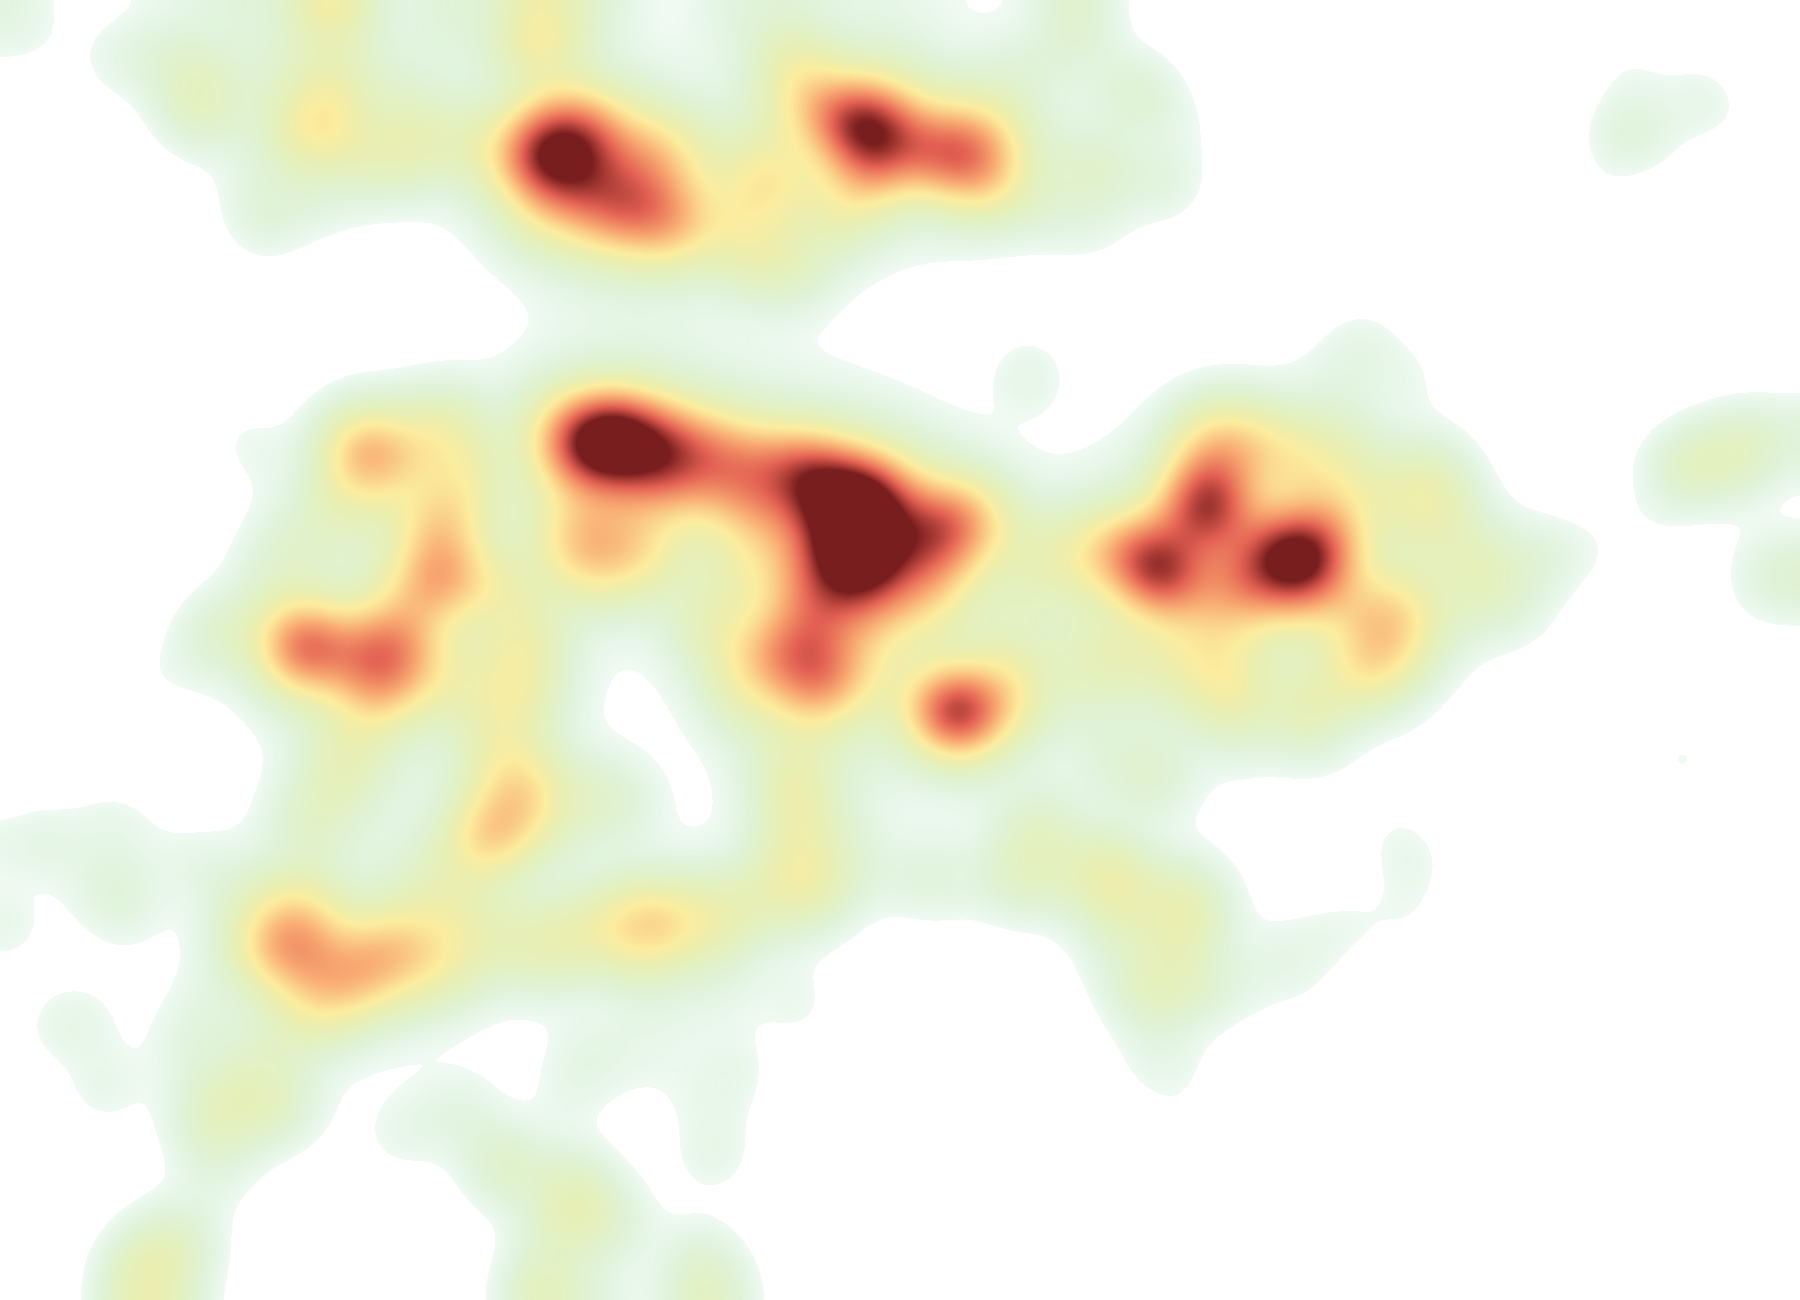
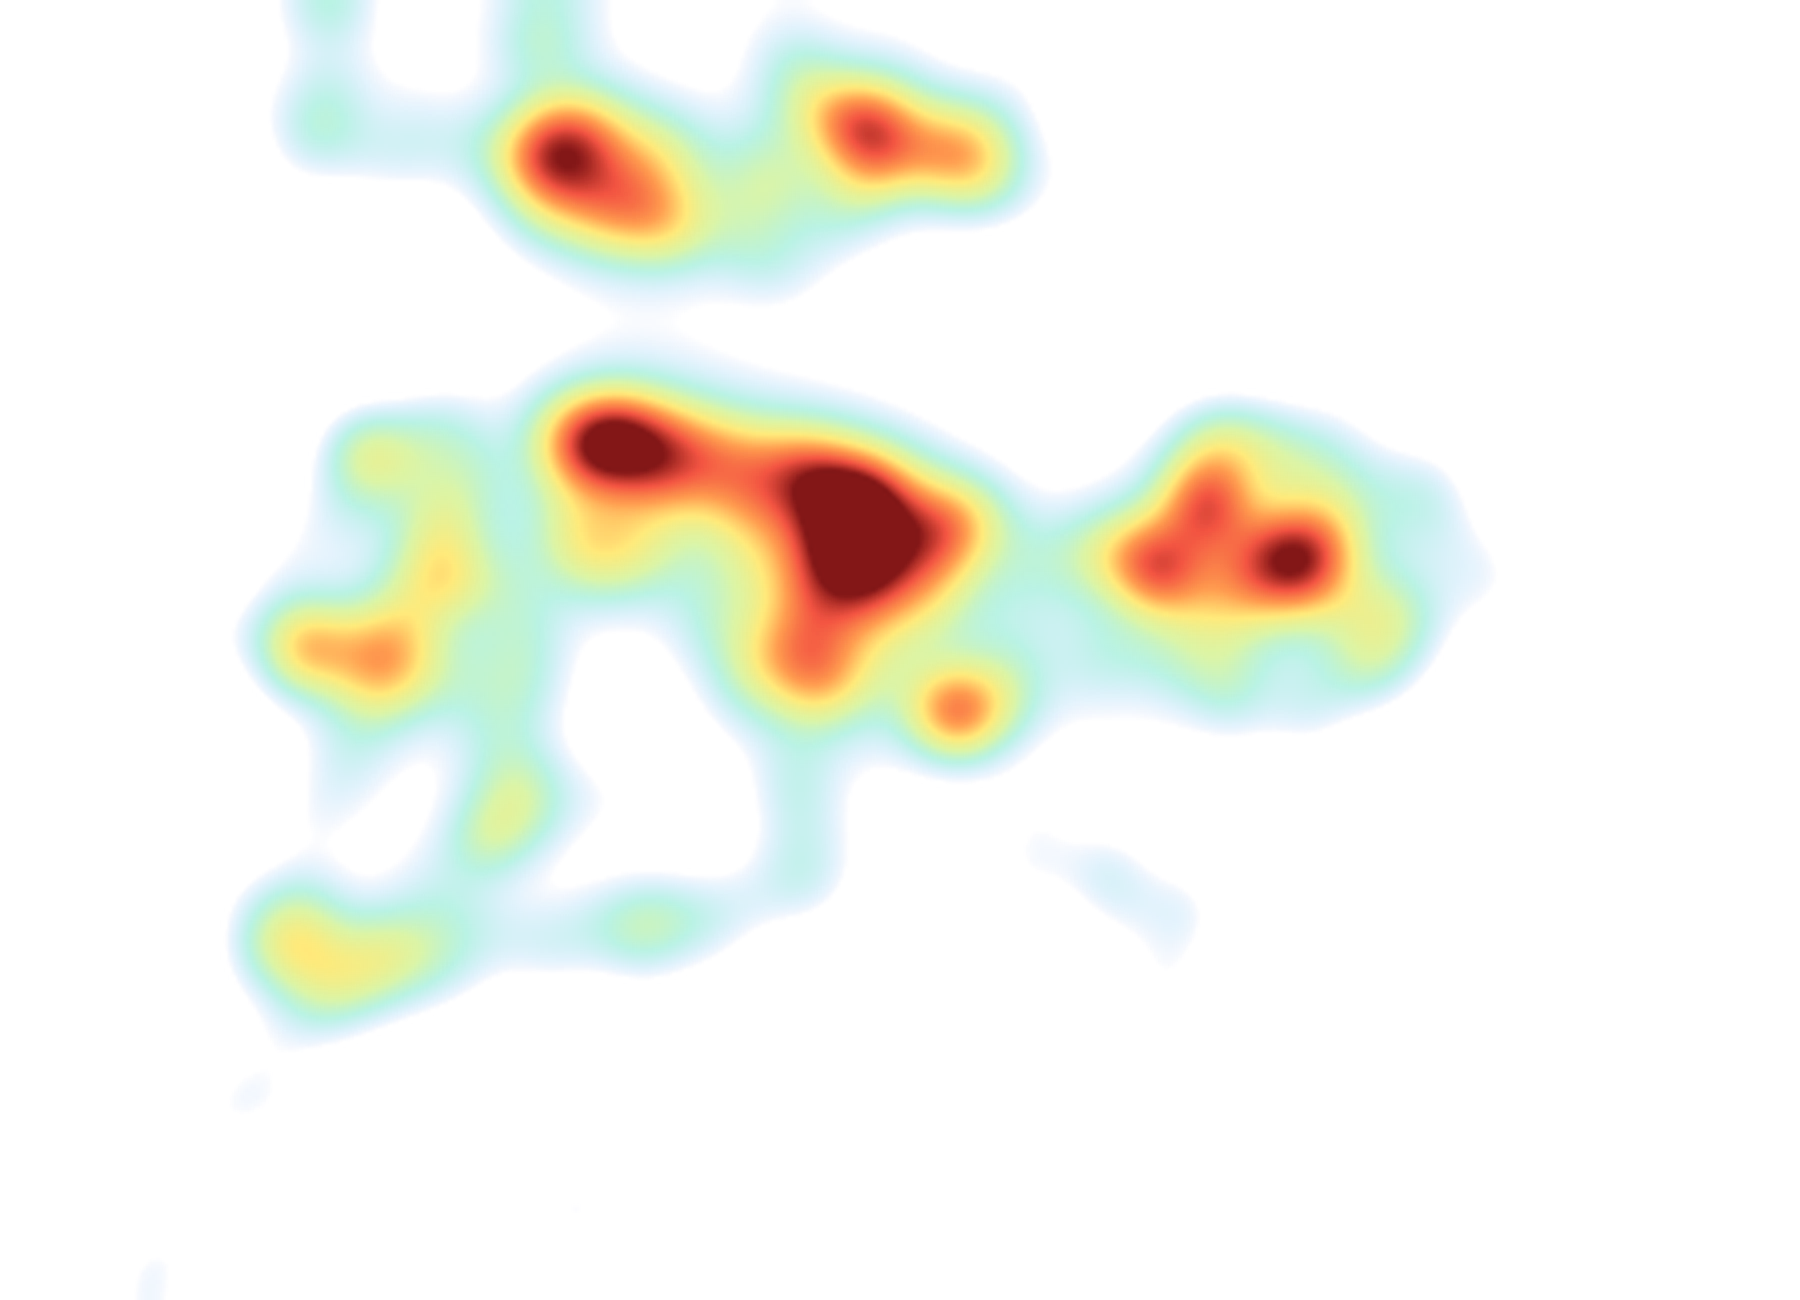
Render commercial density as continuous heat surface

diff --git a/scripts/render-central-commercial-heatmap.py b/scripts/render-central-commercial-heatmap.py
@@ -10,41 +10,54 @@ from scipy.ndimage import gaussian_filter
 ROOT = Path(__file__).resolve().parent.parent
 INPUT = ROOT / "data" / "central-bengaluru-commercial-density.json"
 OUTPUT = ROOT / "sangeetha-map" / "assets" / "central-commercial-heatmap.png"
+# Build the heat field at a deliberately coarse resolution, then scale it up.
+# This makes nearby commercial clusters merge into one organic city patch instead
+# of rendering as a collection of point-sized circles.
+FIELD_WIDTH, FIELD_HEIGHT = 450, 325
 WIDTH, HEIGHT = 1800, 1300
 
 with INPUT.open() as source:
     snapshot = json.load(source)
 
 bounds = snapshot["area"]["bounds"]
-density = np.zeros((HEIGHT, WIDTH), dtype=np.float32)
+density = np.zeros((FIELD_HEIGHT, FIELD_WIDTH), dtype=np.float32)
 for point in snapshot["points"]:
-    x = round((point["lng"] - bounds["west"]) / (bounds["east"] - bounds["west"]) * (WIDTH - 1))
-    y = round((bounds["north"] - point["lat"]) / (bounds["north"] - bounds["south"]) * (HEIGHT - 1))
-    if 0 <= x < WIDTH and 0 <= y < HEIGHT:
+    x = round((point["lng"] - bounds["west"]) / (bounds["east"] - bounds["west"]) * (FIELD_WIDTH - 1))
+    y = round((bounds["north"] - point["lat"]) / (bounds["north"] - bounds["south"]) * (FIELD_HEIGHT - 1))
+    if 0 <= x < FIELD_WIDTH and 0 <= y < FIELD_HEIGHT:
         density[y, x] += float(point.get("weight", 0.7))
 
-# A small blur preserves distinct hotspots; a wider blur joins nearby commercial streets.
-surface = (gaussian_filter(density, sigma=30) * 0.72) + (gaussian_filter(density, sigma=78) * 0.28)
-floor = np.percentile(surface[surface > 0], 42)
-peak = np.percentile(surface[surface > 0], 99.2)
+# Multiple blur ranges turn individual buildings into continuous, irregular
+# commercial zones. The widest field is intentionally subtle: it connects
+# nearby activity without flooding the entire map with colour.
+surface = (
+    gaussian_filter(density, sigma=8) * 0.42
+    + gaussian_filter(density, sigma=20) * 0.38
+    + gaussian_filter(density, sigma=38) * 0.20
+)
+floor = np.percentile(surface[surface > 0], 68)
+peak = np.percentile(surface[surface > 0], 99.35)
 intensity = np.clip((surface - floor) / max(peak - floor, 0.000001), 0, 1)
-intensity = np.power(intensity, 0.82)
+intensity = np.power(intensity, 0.72)
 
 stops = np.array([
-    [18, 177, 73],
-    [156, 207, 48],
-    [248, 215, 47],
-    [245, 120, 29],
-    [218, 45, 27],
-    [103, 0, 0],
+    [87, 64, 214],   # violet outer contour
+    [52, 166, 241],  # cyan
+    [24, 214, 167],  # green / teal
+    [173, 232, 56],  # lime
+    [255, 218, 23],  # yellow
+    [255, 111, 0],   # orange
+    [240, 42, 20],   # red
+    [120, 0, 0],     # dark red core
 ], dtype=np.float32)
 scaled = intensity * (len(stops) - 1)
 index = np.minimum(scaled.astype(np.int32), len(stops) - 2)
 fraction = (scaled - index)[..., None]
 rgb = (stops[index] * (1 - fraction)) + (stops[index + 1] * fraction)
-alpha = (np.power(intensity, 0.7) * 225).astype(np.uint8)
-alpha[intensity < 0.025] = 0
+alpha_mask = np.clip((intensity - 0.075) / 0.925, 0, 1)
+alpha = (np.power(alpha_mask, 0.75) * 232).astype(np.uint8)
 rgba = np.dstack((rgb.astype(np.uint8), alpha))
 
-Image.fromarray(rgba, "RGBA").save(OUTPUT, optimize=True)
+field = Image.fromarray(rgba, "RGBA")
+field.resize((WIDTH, HEIGHT), Image.Resampling.LANCZOS).save(OUTPUT, optimize=True)
 print(f"Saved {OUTPUT}")
